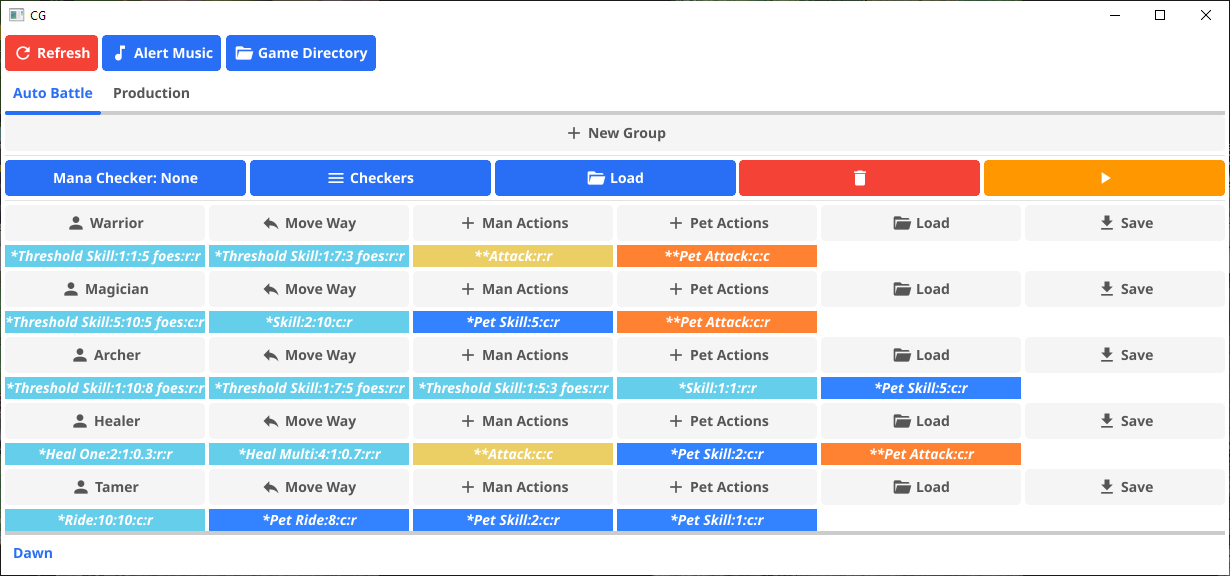
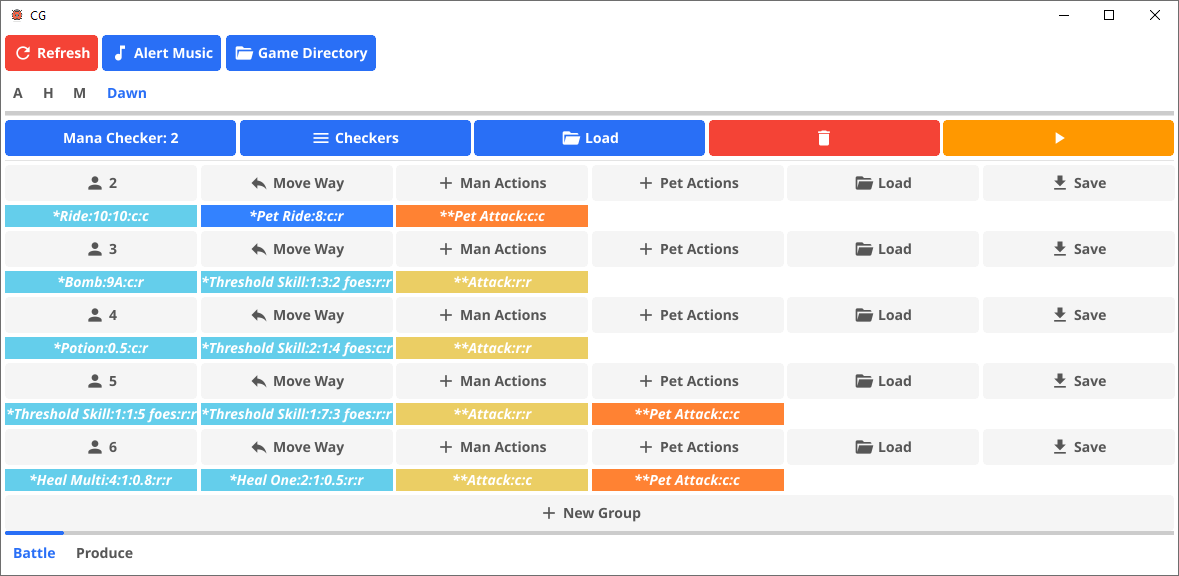
Add the Blood Magic skill button and update example

diff --git a/game/battle_action.go b/game/battle_action.go
@@ -276,6 +276,42 @@ func (b *BattleActionState) executeHumanStateMachine() {
 				b.logH("cannot find the position of window")
 				b.setFailureState(Human)
 			}
+		case HumanBloodMagic:
+			closeAllWindows(b.hWnd)
+			clearChat(b.hWnd)
+			if self, ok := b.getSelfTarget(true); ok {
+				ratio, _ := strconv.ParseFloat(b.HumanActions[b.currentHumanActionId].Param, 32)
+
+				if !b.isHealthLowerThan(float32(ratio), self) {
+					b.logH("is a healthy boy")
+					break
+				}
+
+				openWindow(b.hWnd, KEY_SKILL)
+				if x, y, ok := b.getSkillWindowPos(); ok {
+					offset := int(b.HumanActions[b.currentHumanActionId].Offset)
+					level := int(b.HumanActions[b.currentHumanActionId].Level)
+					useHumanSkill(b.hWnd, x, y, offset, level)
+					if b.didHumanMissSkill(x, y) {
+						b.logH("missed the skill button or is out of mana")
+					} else if b.isHumanActionSuccessful() {
+						b.logH("used a skill")
+						b.setSuccessState(Human)
+					} else if b.attack(b.isHumanActionSuccessful) {
+						b.logH("used a skill")
+						b.setSuccessState(Human)
+					} else {
+						b.logH("missed a hit")
+						b.setFailureState(Human)
+					}
+				} else {
+					b.logH("cannot find the position of window")
+					b.setFailureState(Human)
+				}
+
+			} else {
+				b.logH("cannot find self")
+			}
 		case HumanHealSelf:
 			closeAllWindows(b.hWnd)
 			clearChat(b.hWnd)

diff --git a/battle_container.go b/battle_container.go
@@ -341,6 +341,7 @@ func generateGameWidget(options gameWidgeOptions) (gameWidget *fyne.Container, a
 			var healOneButton *widget.Button
 			var healTShapeButton *widget.Button
 			var healMultiButton *widget.Button
+			var bloodMagicButton *widget.Button
 
 			attackButton = widget.NewButton(HumanAttack.String(), func() {
 				worker.ActionState.AddHumanAction(HumanAttack)
@@ -560,6 +561,20 @@ func generateGameWidget(options gameWidgeOptions) (gameWidget *fyne.Container, a
 			})
 			healMultiButton.Importance = widget.HighImportance
 
+			bloodMagicButton = widget.NewButton(HumanBloodMagic.String(), func() {
+				worker.ActionState.AddHumanAction(HumanBloodMagic)
+
+				dialogs := []func(){
+					offsetSelectorDialog(Human),
+					levelSelectorDialog(Human),
+					healingRatioSelectorDialog(Human),
+					successControlUnitSelectorDialog(Human),
+					failureControlUnitSelectorDialog(Human),
+				}
+				activateDialogs(dialogs, selectorDialogEnableChan)
+			})
+			bloodMagicButton.Importance = widget.HighImportance
+
 			actionsContainer := container.NewGridWithColumns(4,
 				attackButton,
 				defendButton,
@@ -571,6 +586,7 @@ func generateGameWidget(options gameWidgeOptions) (gameWidget *fyne.Container, a
 				recallButton,
 				rideButton,
 				potionButton,
+				bloodMagicButton,
 				healSelfButton,
 				healOneButton,
 				healTShapeButton,

diff --git a/game/battle_enum.go b/game/battle_enum.go
@@ -40,6 +40,7 @@ const (
 	HumanPotion
 	HumanSkill
 	HumanThresholdSkill
+	HumanBloodMagic
 	HumanHealSelf
 	HumanHealOne
 	HumanHealTShaped
@@ -134,6 +135,8 @@ func (ha humanAction) String() string {
 		return "*Skill"
 	case HumanThresholdSkill:
 		return "*Threshold Skill"
+	case HumanBloodMagic:
+		return "*Blood Magic"
 	case HumanHealSelf:
 		return "*Heal Self"
 	case HumanHealOne:

diff --git a/main.go b/main.go
@@ -17,7 +17,7 @@ import (
 const (
 	APP_NAME     = "CG"
 	APP_WIDTH    = 960
-	APP_HEIGHT   = 420
+	APP_HEIGHT   = 320 //420
 	DEFAULT_ROOT = `D:\CG`
 )
 
